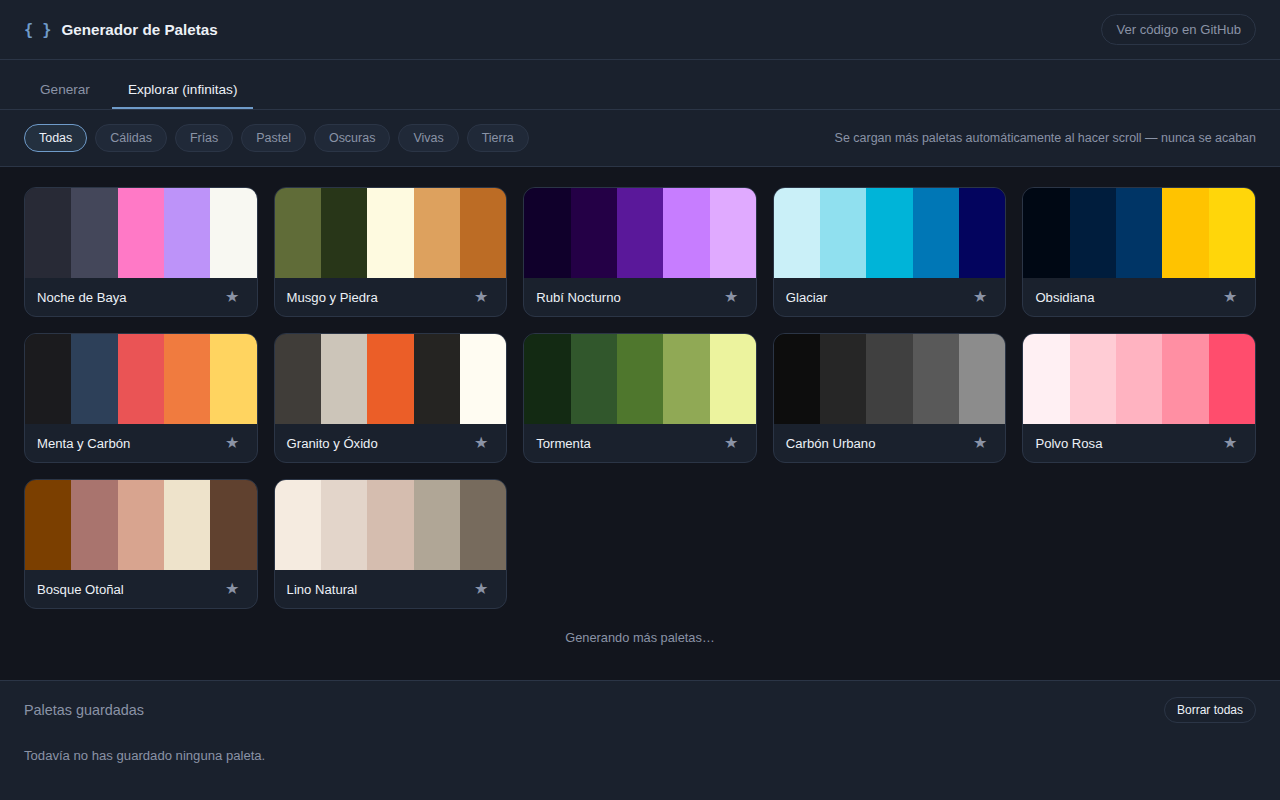
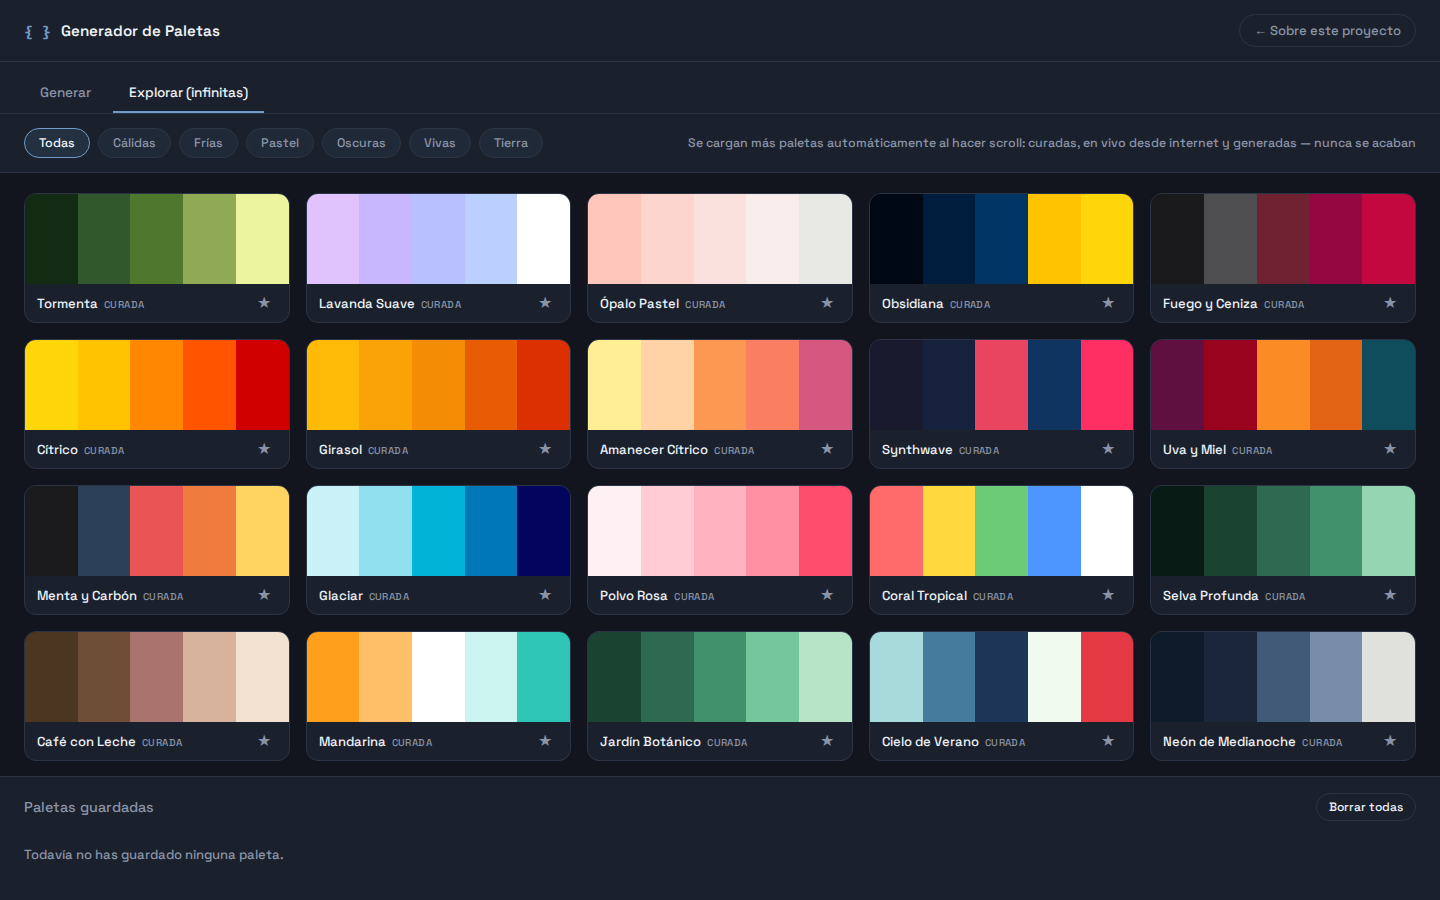
Explorar: llenar pantallas grandes y descartar lotes antiguos
En pantallas altas el primer lote no generaba barra de scroll y la galería
no cargaba más. Ahora sigue cargando hasta llenar la vista (solo si la
pestaña es visible), y si cambias de filtro mientras llega una respuesta
de la API, ese lote se descarta.

Claude-Session: https://claude.ai/code/session_01XW3VsndNEKRjwQSa4nueUb

diff --git a/index.html b/index.html
@@ -948,6 +948,7 @@
   };
 
   const exploreState = {
+    generation: 0,
     tag: 'todas',
     curatedPointer: 0,
     curatedOrder: [],
@@ -1064,20 +1065,32 @@
     if (loadingRow) loadingRow.style.display = visible ? 'block' : 'none';
   };
 
+  // ¿Falta contenido por debajo de la vista? Solo cuenta si la pestaña está
+  // visible (oculta mide 0 px y parecería que siempre falta).
+  const needsMore = () =>
+    exploreScroll.clientHeight > 0 &&
+    exploreScroll.scrollHeight - exploreScroll.scrollTop - exploreScroll.clientHeight < 500;
+
   const loadMoreExplore = async () => {
     if (exploreState.loading) return;
     exploreState.loading = true;
+    const generation = exploreState.generation;
     setLoadingVisible(true);
     try {
       const batch = await nextExploreBatch(12);
-      batch.forEach(appendExploreCard);
+      // Si se cambió de filtro mientras llegaba la respuesta, ese lote ya no vale.
+      if (generation === exploreState.generation) batch.forEach(appendExploreCard);
     } finally {
       exploreState.loading = false;
       setLoadingVisible(false);
     }
+    // En pantallas grandes un lote puede no llenar la vista: sin barra de scroll
+    // nunca llegaría el evento, así que se sigue cargando hasta llenarla.
+    if (needsMore()) loadMoreExplore();
   };
 
   const resetExplore = (tag) => {
+    exploreState.generation++;
     exploreState.tag = tag;
     exploreState.curatedPointer = 0;
     exploreState.curatedOrder = shuffledCurated();
@@ -1087,8 +1100,10 @@
   };
 
   exploreScroll.addEventListener('scroll', () => {
-    const distanceToBottom = exploreScroll.scrollHeight - exploreScroll.scrollTop - exploreScroll.clientHeight;
-    if (distanceToBottom < 500) loadMoreExplore();
+    if (needsMore()) loadMoreExplore();
+  });
+  window.addEventListener('resize', () => {
+    if (needsMore()) loadMoreExplore();
   });
 
   document.getElementById('filterChips').addEventListener('click', (e) => {
@@ -1109,6 +1124,7 @@
     });
     document.getElementById('viewGenerate').classList.toggle('active', tab === 'generate');
     document.getElementById('viewExplore').classList.toggle('active', tab === 'explore');
+    if (tab === 'explore' && needsMore()) loadMoreExplore();
   };
 
   document.querySelectorAll('.tab-btn').forEach((btn) => {
